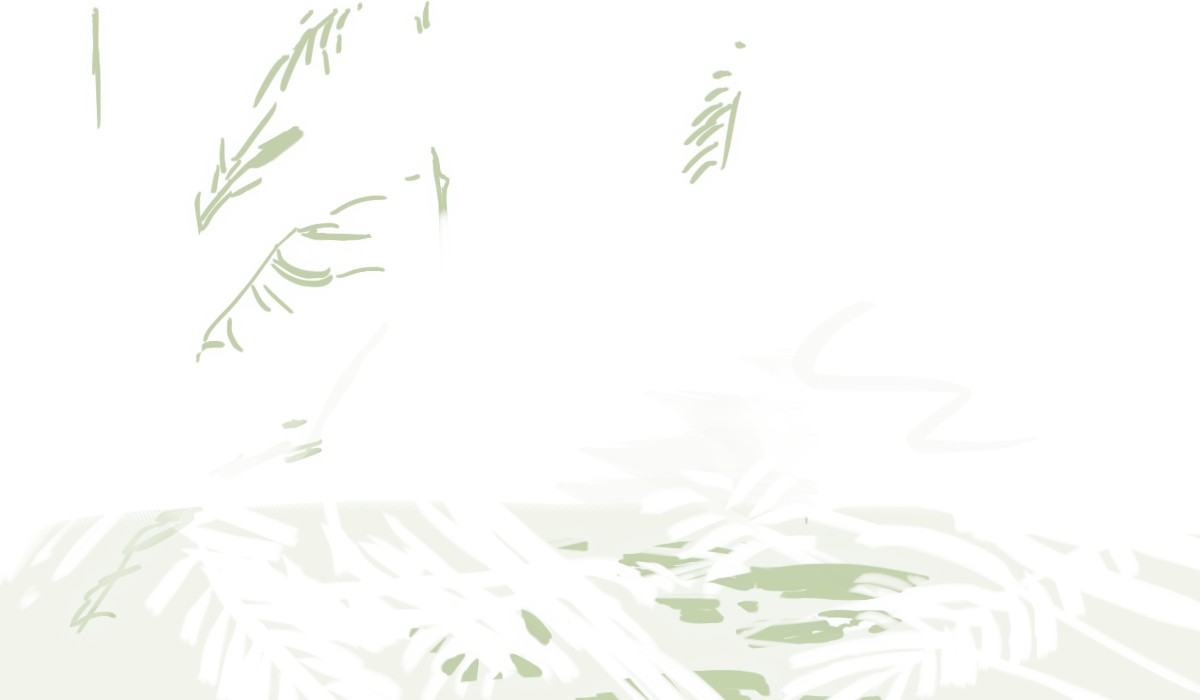
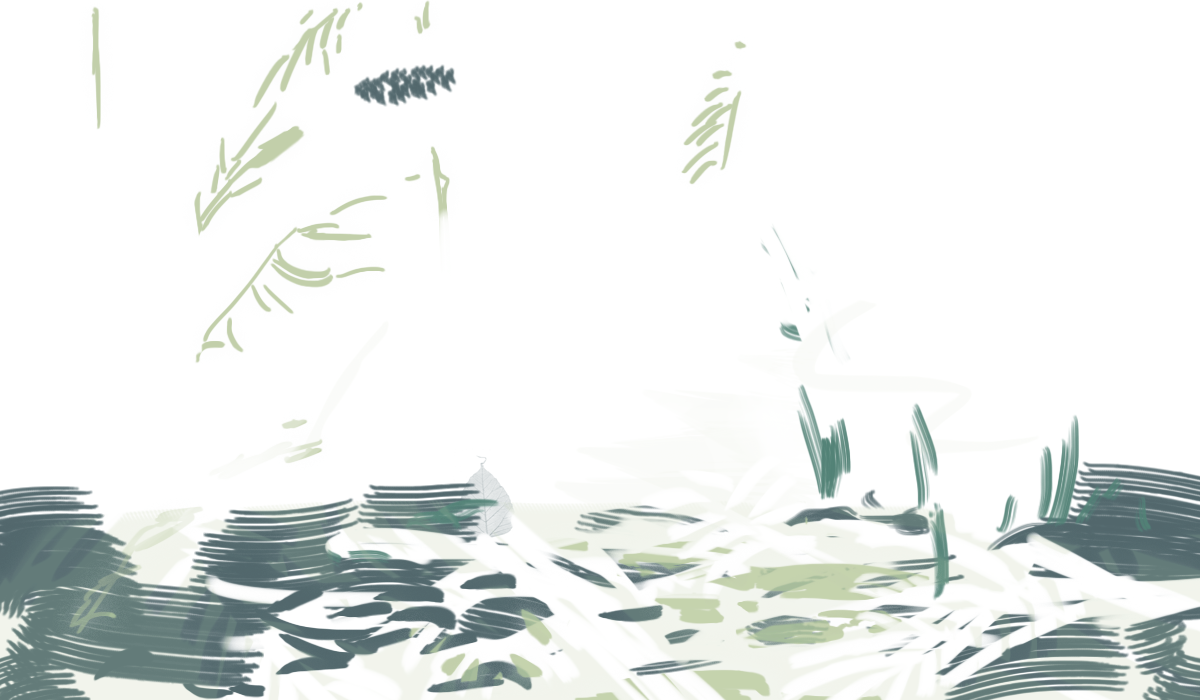
adding vine paths

diff --git a/index.html b/index.html
@@ -16,7 +16,7 @@ layout: default
 <div class="layer layer--overlay foreground js-layer js-layer--3" style="background-image: url(images/3-fg.png)"></div>
 -->
 
-<div class="layer layer--overlay background js-layer js-layer--4" style="background-image: url(images/4-bg.png)"></div>
+<div class="layer layer--overlay background js-layer js-layer--4" style="background-image: url(images/4-bg-vines.png)"></div>
 <div class="layer layer--overlay middleground js-layer js-layer--4" style="background-image: url(images/4-mg.png)"></div>
 <!--
 <div class="layer layer--overlay foreground js-layer js-layer--4" style="background-image: url(images/4-fg.png)"></div>
@@ -86,23 +86,43 @@ layout: default
         <div class="col-sm-4">
           <div class="layer--content__text">
             <p></p>
+            <animate>
+              <div class="js-vine-trigger" data-scene="2" data-time="0.05"></div>
+              <p></p>
+              <p></p>
+            </animate>
             <p>
               It starts as a teeny seedling, barely visible, poking up from the forest floor. Not much to look at. Not yet. But just knowing its name – Monstera gigantea – you know it’s about to get bigger.
             </p>
             <animate>
-              <div class="js-vine-trigger" data-scene="1" data-time="1"></div>
+              <div class="js-vine-trigger" data-scene="2" data-time="0.2"></div>
               <p></p>
               <p></p>
             </animate>
             <p>
               The seed starts to grow, peeps through the soil, and begins to elongate. It’s a slender, baby vine. Popping up on the forest floor, peeking out, stretching, growing.
             </p>
+            <animate>
+              <div class="js-vine-trigger" data-scene="2" data-time="0.4"></div>
+              <p></p>
+              <p></p>
+            </animate>
             <p>
               And so it starts to snake its way through the forest floor, bending left a little… right a little… left a little… right a little.
             </p>
+            <animate>
+              <div class="js-vine-trigger" data-scene="2" data-time="0.6"></div>
+              <p></p>
+              <p></p>
+            </animate>
             <p>
               The thing about vines that makes them different from bushes and trees and sturdier plants, is they have no vertical architecture, nothing that holds them upright. Vines can’t shoot straight up toward the light like trees. Instead, they’re floppy.
             </p>
+            <animate>
+              <div class="js-vine-trigger" data-scene="2" data-time="1"></div>
+              <p></p>
+              <p></p>
+            </animate>
             <p>
               They would be the plant equivalent of snakes, stuck crawling on the ground. They move sideways, looking for something to grab onto, something to help them up. How do they find a ladder to the sky?
             </p>
@@ -146,12 +166,18 @@ layout: default
           <div class="layer--content__text"">
             <p></p>
 
+            <animate>
+              <div class="js-vine-trigger" data-scene="4" data-time="0.2"></div>
+              <p></p>
+              <p></p>
+            </animate>
+
             <p>
               As Monstera inches its way towards the darkness, it’s a race against time. Because it has precious few tiny leaves, Monstera doesn’t have the energy to spend on sprinting towards its tree. Instead, it’s a slow and steady crawl.
             </p>
 
             <animate>
-              <div class="js-vine-trigger" data-scene="2" data-time="0.5"></div>
+              <div class="js-vine-trigger" data-scene="4" data-time="0.4"></div>
               <p></p>
               <p></p>
             </animate>
@@ -161,7 +187,7 @@ layout: default
              </p>
 
             <animate>
-              <div class="js-vine-trigger" data-scene="2" data-time="1"></div>
+              <div class="js-vine-trigger" data-scene="4" data-time="0.6"></div>
               <p></p>
               <p></p>
             </animate>
@@ -170,9 +196,22 @@ layout: default
               But some fortunate few make it. And once they make contact with the tree trunk, their ladder to the light, the vine starts to transform itself. Vines can sense touch: in fact, their tendrils have been considered more sensitive than human touch, able to detect weights much less than a penny. And so, assumedly, it’s the sensation of touch that tells Monstera it’s arrived.
             </p>
 
+            <animate>
+              <div class="js-vine-trigger" data-scene="4" data-time="0.8"></div>
+              <p></p>
+              <p></p>
+            </animate>
+
             <p>
               It’s no longer a darkness seeker. Now this vine’s job is to climb.
             </p>
+
+            <animate>
+              <div class="js-vine-trigger" data-scene="4" data-time="1"></div>
+              <p></p>
+              <p></p>
+            </animate>
+            <div class="js-vine-kill"></div>
             <div class="js-scene-trigger" data-index="5"></div>
           </div>
         </div>
@@ -187,17 +226,36 @@ layout: default
         <div class="col-sm-4">
           <div class="layer--content__text"">
             <p></p>
-            <div class="js-vine-kill"></div>
+            <animate>
+              <div class="js-vine-trigger" data-scene="5" data-time="0.25"></div>
+              <p></p>
+              <p></p>
+            </animate>
             <p>
               To power its vertical ascent, it sprouts leaves, with a shape somewhere between a circle and a heart, that press flat against the tree like wallpaper. Meanwhile, its sticky roots cling on to the bark like superglue. With patches of diffuse sunshine to fuel its growth, the vine keeps climbing.
             </p>
+            <animate>
+              <div class="js-vine-trigger" data-scene="5" data-time="0.5"></div>
+              <p></p>
+              <p></p>
+            </animate>
             <p>
               At first its leaves as small, about a centimeter across (under half an inch). But as it climbs higher, it can afford to become more ambitious. Its leaves grow bigger and becomes a darker shade of green, eventually growing to almost a foot across. All the while, Monstera keeps climbing.
             </p>
+            <animate>
+              <div class="js-vine-trigger" data-scene="5" data-time="0.75"></div>
+              <p></p>
+              <p></p>
+            </animate>
             <p>
               Now, suddenly, comes another change. For the first time in its life, this vine breaks through the shade of the forest canopy, and is basking in direct sunlight. It has managed to do what every vine aspires to do, and has succeeded in this daring journey towards the light.
             </p>
-
+            <animate>
+              <div class="js-vine-trigger" data-scene="5" data-time="1"></div>
+              <p></p>
+              <p></p>
+            </animate>
+            <div class="js-vine-kill"></div>
             <div class="js-scene-trigger" data-index="6"></div>
           </div>
         </div>

diff --git a/_includes/_vine_paths.html b/_includes/_vine_paths.html
@@ -1,9 +1,15 @@
-<path class="vine-path-scene2" d="M0.5,676.665 C0.5,676.665 45.986,674.73 124.055,592.145 C202.124,509.56 237.61,527.625 263.417,547.304 C289.225,566.982 319.227,568.595 349.551,534.077"/>
+<path class="vine-path-scene2" d="M169.027,603.898 C169.027,603.898 189.651,599.773 223.239,593.292 C256.826,586.81 256.826,595.059 282.754,598.595 C308.681,602.13 326.359,608.612 344.036,612.737 C361.714,616.862 370.553,635.129 394.712,632.182 C418.872,629.236 401.783,639.254 424.764,613.916 C447.745,588.578 456.584,593.881 474.262,620.987 C491.94,648.092 502.546,693.465 541.437,631.004 C580.328,568.543 585.631,590.935 598.006,615.094 C610.38,639.254 641.611,677.555 679.912,626.29 C718.214,575.025 729.999,566.186 729.999,566.186 C729.999,566.186 739.427,542.616 748.266,553.222 C757.105,563.829 750.623,561.472 783.032,597.416 C815.441,633.361 813.084,717.625 859.046,610.969 C905.008,504.314 698.256,609.998 925.299,575.462 C1152.342,540.925 863.262,516.622 966.231,583.776 C1069.199,650.929 1058.327,664.36 1064.083,668.197 C1069.839,672.035 1080.711,712.327 1110.771,672.674 C1140.83,633.022 1127.399,628.545 1140.19,603.602 C1152.981,578.659 1130.212,472.757 1193.047,609.01"/>
 
-<path class="vine-path-scene1" d="M0.5,492.139 C0.5,492.139 30.824,452.137 91.473,478.268 C152.121,504.398 142.766,496.01 173.09,474.074 C203.414,452.137 201.479,456.976 219.221,464.396"/>
+<path class="vine-path-scene4" d="M4.151,490.651 C4.151,490.651 43.4,455.054 100.447,481.067 C157.494,507.081 158.864,482.437 170.729,478.786 C182.595,475.135 181.683,449.577 219.562,463.269 C257.442,476.96 275.466,498.376 314.62,458.777 C353.774,419.178 354.219,435.641 383.584,444.984 C412.949,454.328 446.764,493.037 460.112,499.711 C473.46,506.385 464.561,532.191 517.953,524.182 C571.344,516.173 571.051,445.243 569.788,421.26 C568.526,397.277 563.898,392.228 585.357,367.403 C606.815,342.578 610.602,352.676 618.176,334.584 C625.75,316.491 638.372,313.546 650.995,275.677 C663.618,237.809 672.875,228.131 674.558,188.159 C676.241,148.187 667.826,167.121 677.503,122.941 C687.181,78.761 694.754,82.548 703.169,47.625 C711.585,12.702 701.907,0.5 701.907,0.5"/>
+
+<path class="vine-path-scene5" d="M373.97,700.488 C373.97,700.488 365.866,702.025 380.626,680.03 C395.386,658.034 395.386,664.401 402.043,641.538 C408.699,618.674 411.304,615.201 396.544,585.97 C381.784,556.74 396.254,563.396 377.732,527.22 C359.21,491.043 355.737,488.438 358.341,483.808 C360.946,479.177 356.026,475.994 371.654,466.443 C387.283,456.892 395.386,470.784 402.332,445.316 C409.278,419.848 405.516,435.186 412.461,409.718 C419.407,384.25 412.172,374.699 402.332,359.65 C392.492,344.6 387.283,355.308 366.734,339.68 C346.186,324.052 323.901,316.817 320.428,297.715 C316.955,278.614 340.687,280.351 337.214,265.012 C333.741,249.673 334.32,250.252 325.059,230.572 C315.798,210.891 297.275,204.814 309.431,181.082 C321.586,157.35 321.535,158.099 314.014,128.67 C306.493,99.24 289.49,109.704 278.372,60.982 C267.254,12.26 236.517,23.705 239.787,0.488"/>
 
 
 <!--
+<path class="vine-path-scene5" d="M394.97,700.5 C394.97,700.5 386.866,702.037 401.626,680.041 C416.386,658.046 416.386,664.413 423.043,641.549 C429.699,618.686 432.304,615.213 417.544,585.982 C402.784,556.751 417.254,563.408 398.732,527.231 C380.21,491.055 376.737,488.45 379.341,483.819 C381.946,479.189 377.026,476.005 392.654,466.455 C408.283,456.904 416.386,470.796 423.332,445.327 C430.278,419.859 426.516,435.198 433.461,409.73 C440.407,384.261 433.172,374.711 423.332,359.661 C413.492,344.612 408.283,355.32 387.734,339.692 C367.186,324.063 344.901,316.828 341.428,297.727 C337.955,278.626 361.687,280.362 358.214,265.023 C354.741,249.684 355.32,250.263 346.059,230.583 C336.798,210.903 318.275,204.825 330.431,181.094 C342.586,157.362 342.535,158.111 335.014,128.681 C327.493,99.252 310.49,109.716 299.372,60.994 C288.254,12.272 257.517,23.717 260.787,0.5"/>
+
+<path class="vine-path-scene2" d="M0.5,700.5 C0.5,700.5 6.131,681.275 66.381,655.373 C126.632,629.471 103.545,676.77 146.903,644.111 C190.261,611.452 178.436,584.987 198.144,578.23 C217.853,571.473 235.308,548.949 278.103,543.881 C320.898,538.813 335.538,543.881 369.324,556.832 C403.109,569.783 405.361,599.627 436.894,610.326 C468.427,621.025 475.631,651.585 504.494,649.92 C533.357,648.255 533.912,663.796 564.441,666.017 C594.969,668.237 601.075,668.792 647.144,652.695 C693.214,636.598 681.003,636.043 730.958,609.956 C780.914,583.868 757.046,589.973 792.015,571.101 C826.984,552.229 835.31,557.225 857.512,572.766 C879.714,588.308 875.274,592.749 888.595,607.735 C901.917,622.722 908.578,628.828 933.555,631.048 C958.533,633.268 961.308,641.039 989.616,626.052 C1017.924,611.066 998.497,620.502 1036.796,595.524 C1075.095,570.546 1073.985,578.872 1083.976,582.758 C1093.967,586.643 1092.857,586.088 1111.174,568.326"/>
+<path class="vine-path-scene2" d="M0.5,676.665 C0.5,676.665 45.986,674.73 124.055,592.145 C202.124,509.56 237.61,527.625 263.417,547.304 C289.225,566.982 319.227,568.595 349.551,534.077"/>
 <path class="vine-path-scene2" d="M0.5,492.139 C0.5,492.139 30.824,452.137 91.473,478.268 C152.121,504.398 142.766,496.01 173.09,474.074 C203.414,452.137 201.479,456.976 219.221,464.396"/>
 <path class="vine-path-scene2" d="M-3.371,393.424 C0.5,391.166 42.115,364.391 85.021,392.779 C127.926,421.168 152.121,396.328 152.121,396.328 C176.961,362.778 195.349,385.359 193.414,386.327"/>
 <path class="vine-path-scene2" d="M-3.371,259.224 C-3.371,259.224 33.728,213.415 88.892,268.902 C144.056,324.388 177.929,296 188.897,287.935 C199.866,279.87 219.544,280.192 241.481,303.419"/>

diff --git a/scripts/src/main.js b/scripts/src/main.js
@@ -59,7 +59,7 @@ $(document).ready(function() {
     vine[sceneID] = new VineScene({
       renderer: renderer,
       container: container,
-      pointCount: 100
+      pointCount: 200
     });
 
     vineStates[sceneID] = [];
